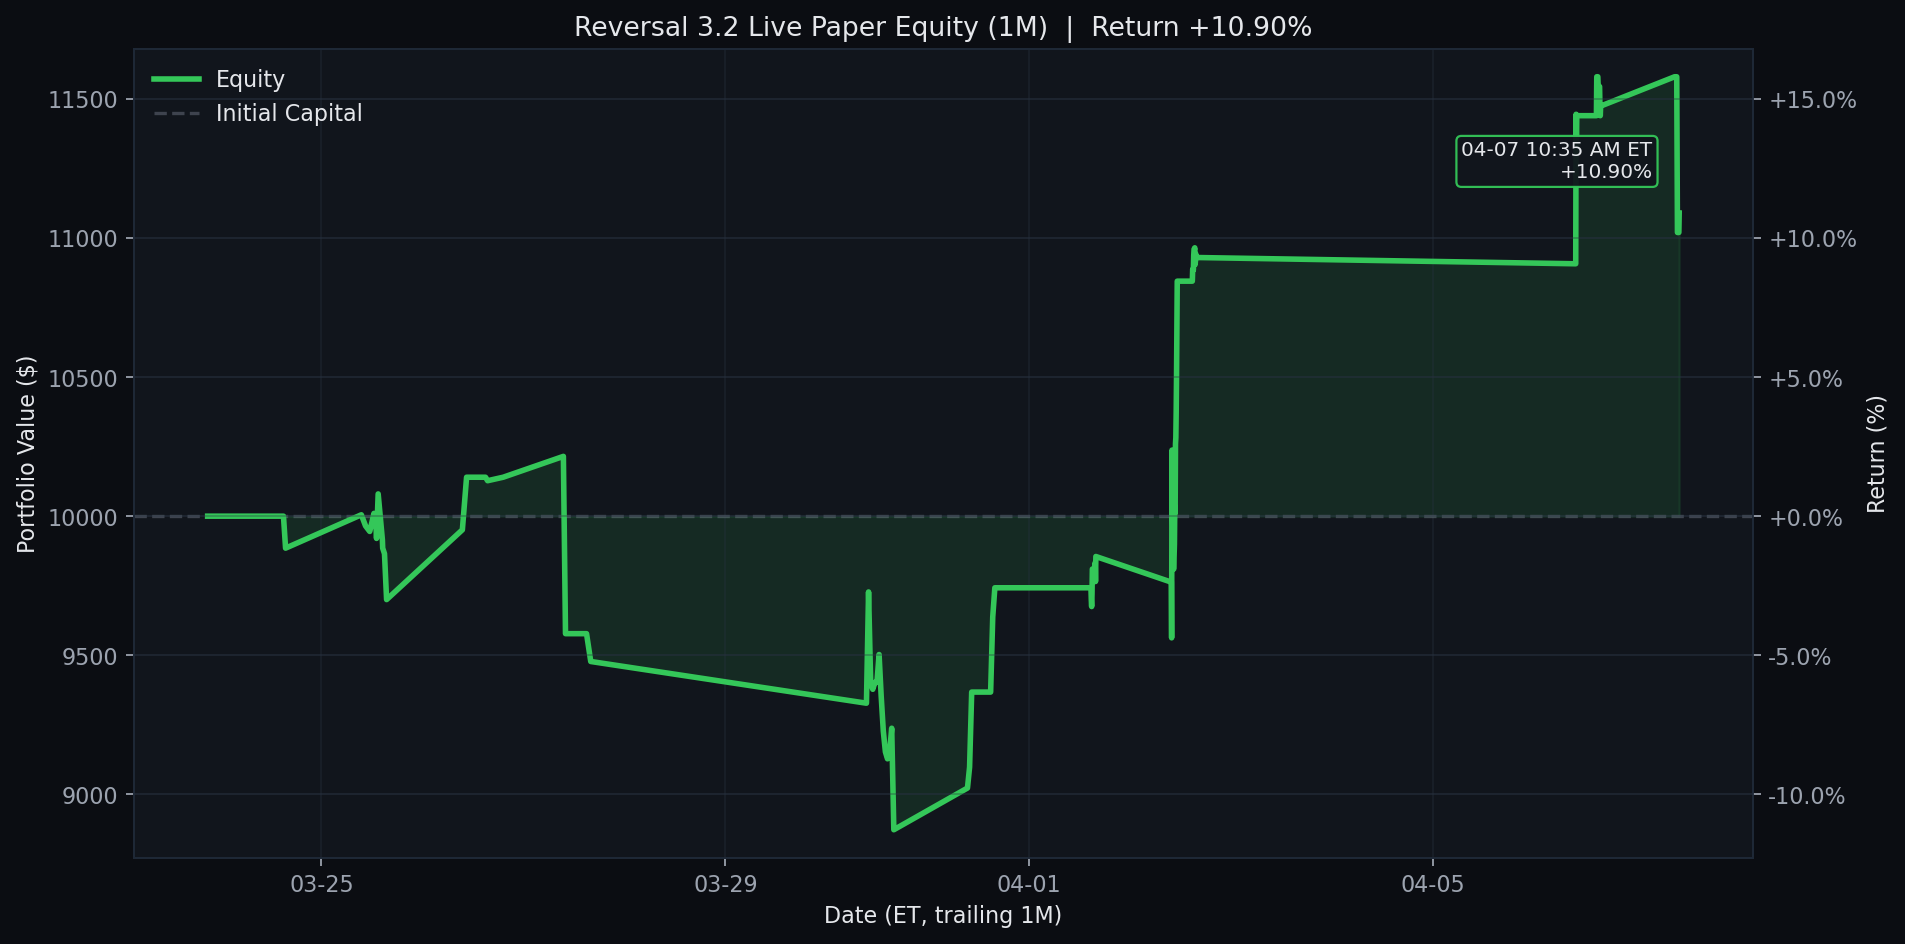
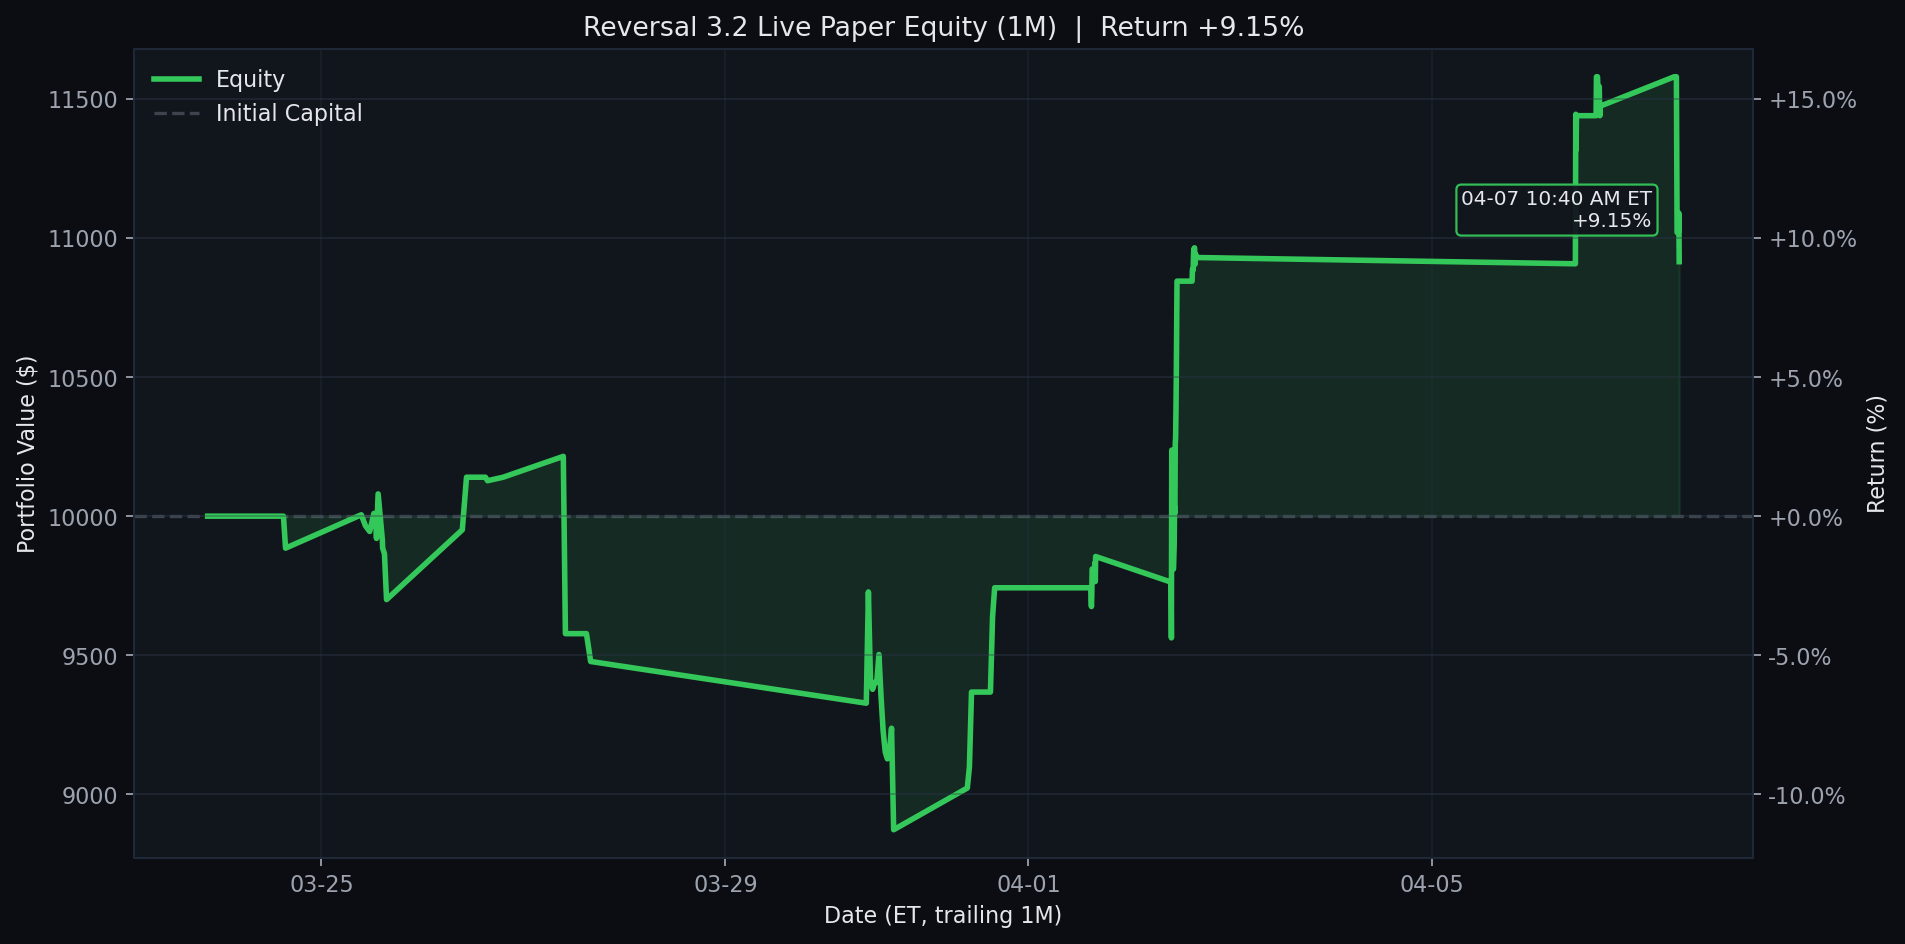
Update Reversal 3.2 live paper test 2026-04-07 10:40 ET

Changed region(s): [[0.3097, 0.0, 0.6814, 0.0614], [0.7433, 0.1229, 0.8982, 0.2765], [0.7433, 0.9216, 0.7743, 0.9523]]

diff --git a/results/reversal_3_2_live/README.md b/results/reversal_3_2_live/README.md
@@ -1,6 +1,6 @@
 # Reversal 3.2 Live Paper Test
 
-Last updated (ET): `2026-04-07 10:35:05 EDT`
+Last updated (ET): `2026-04-07 10:40:05 EDT`
 Last processed slot: `manage_1030`
 
 ## Active Configuration
@@ -20,16 +20,16 @@ Last processed slot: `manage_1030`
 ## Portfolio Snapshot
 
 - Cash: `$6,260.00`
-- Equity: `$11,090.00`
+- Equity: `$10,915.00`
 - Realized PnL: `$1,440.00`
-- Unrealized PnL: `$-350.00`
+- Unrealized PnL: `$-525.00`
 - Open positions: `1`
 
 ## Open Positions
 
 ```text
 ticker    contract_symbol entry_trade_date  business_days_held  contracts  cash_spent  current_position_value  entry_option_price  current_option_price  entry_spot  current_spot  unrealized_pnl  unrealized_return_pct  success_rate  matched_signals  current_drop_pct  entry_iv_pct  current_iv_pct  rolling_sigma_20d_pct
-   HON HON260515C00230000       2026-04-06                   1          7      5180.0                  4830.0                 7.4                   6.9      227.61        225.75          -350.0                  -6.76         100.0               20               0.8         28.89           32.06                  20.57
+   HON HON260515C00230000       2026-04-06                   1          7      5180.0                  4655.0                 7.4                  6.65      227.61        225.66          -525.0                 -10.14         100.0               20               0.8         28.89           30.32                  20.57
 ```
 
 ## Today's Closed Trades (2026-04-07)
@@ -40,34 +40,34 @@ _None_
 
 ```text
 ticker  success_rate_%  matched_signals  current_drop_%  target_rebound_$  target_price  rolling_sigma_20d_%  call_candidate
-   HON          100.00               16            1.00              1.60        227.52                20.19            True
-  TSLA          100.00               15            3.30              8.14        349.33                42.33            True
-  REGN           96.77               31            1.01              5.40        760.73                25.24            True
-  MRVL           96.00               25            2.18              1.67        108.79                70.84            True
-  NVDA           95.65               23            1.59              1.98        176.79                33.70            True
-  UPRO           92.00               25            2.06              1.45        100.12                53.86            True
-  MPWR           91.18               34            1.18              9.77       1175.84                51.99            True
-  CDNS           91.11               45            0.63              1.22        278.87                25.26            True
-  ABNB           90.91               33            1.14              1.01        126.38                36.80            True
-  COST           90.32               31            0.61              4.35       1016.69                13.04            True
-   MAR           89.66               29            0.94              2.23        337.04                25.97            True
-  DDOG           88.89               27            1.91              1.56        115.83                49.06            True
+   HON          100.00               14            1.14              1.83        227.43                20.19            True
+  TSLA          100.00               10            3.69              9.11        348.92                42.33            True
+  REGN           96.77               31            1.03              5.52        760.67                25.24            True
+  MRVL           96.00               25            2.07              1.59        108.83                70.84            True
+  NVDA           95.65               23            1.62              2.01        176.78                33.70            True
+  UPRO           92.00               25            2.09              1.48        100.11                53.86            True
+  MPWR           91.18               34            1.18              9.75       1175.85                51.99            True
+  CDNS           90.91               44            0.78              1.53        278.73                25.26            True
+   MAR           90.91               33            0.89              2.12        337.09                25.97            True
+  ABNB           90.32               31            1.37              1.22        126.29                36.80            True
+  VRTX           88.46               26            1.48              4.51        432.37                40.01            True
+  GILD           88.46               26            0.80              0.78        139.79                20.18            True
 ```
 
 ## Recent Events
 
 ```text
-                    timestamp_et         slot   event_type                          detail
-2026-04-07T10:35:05.885837-04:00  manage_1030 slot_skipped {"reason": "already_processed"}
-2026-04-07T10:30:05.884012-04:00  manage_1030 slot_skipped {"reason": "already_processed"}
-2026-04-07T10:25:05.889349-04:00  manage_1030 slot_skipped {"reason": "already_processed"}
-2026-04-07T10:10:05.890428-04:00  manage_1000 slot_skipped {"reason": "already_processed"}
-2026-04-07T10:05:05.888815-04:00  manage_1000 slot_skipped {"reason": "already_processed"}
-2026-04-07T10:00:05.892155-04:00  manage_1000 slot_skipped {"reason": "already_processed"}
-2026-04-07T09:55:05.880017-04:00  manage_1000 slot_skipped {"reason": "already_processed"}
-2026-04-07T09:40:05.898554-04:00  manage_0930 slot_skipped {"reason": "already_processed"}
-2026-04-07T09:35:05.899056-04:00  manage_0930 slot_skipped {"reason": "already_processed"}
-2026-04-07T09:30:05.896974-04:00 data_refresh data_refresh                   {'saved': 99}
+                    timestamp_et        slot   event_type                          detail
+2026-04-07T10:40:05.892021-04:00 manage_1030 slot_skipped {"reason": "already_processed"}
+2026-04-07T10:35:05.885837-04:00 manage_1030 slot_skipped {"reason": "already_processed"}
+2026-04-07T10:30:05.884012-04:00 manage_1030 slot_skipped {"reason": "already_processed"}
+2026-04-07T10:25:05.889349-04:00 manage_1030 slot_skipped {"reason": "already_processed"}
+2026-04-07T10:10:05.890428-04:00 manage_1000 slot_skipped {"reason": "already_processed"}
+2026-04-07T10:05:05.888815-04:00 manage_1000 slot_skipped {"reason": "already_processed"}
+2026-04-07T10:00:05.892155-04:00 manage_1000 slot_skipped {"reason": "already_processed"}
+2026-04-07T09:55:05.880017-04:00 manage_1000 slot_skipped {"reason": "already_processed"}
+2026-04-07T09:40:05.898554-04:00 manage_0930 slot_skipped {"reason": "already_processed"}
+2026-04-07T09:35:05.899056-04:00 manage_0930 slot_skipped {"reason": "already_processed"}
 ```
 
 ## Equity Curves
@@ -77,20 +77,20 @@ Each chart is generated from the same live equity series with no-lookahead marks
 <details>
 <summary><strong>1D</strong></summary>
 
-![Reversal 3.2 Live Equity 1D](../../assets/reversal_3_2_live_equity_1d.png?v=20260407103505)
+![Reversal 3.2 Live Equity 1D](../../assets/reversal_3_2_live_equity_1d.png?v=20260407104005)
 
 </details>
 
 <details open>
 <summary><strong>1W</strong></summary>
 
-![Reversal 3.2 Live Equity 1W](../../assets/reversal_3_2_live_equity.png?v=20260407103505)
+![Reversal 3.2 Live Equity 1W](../../assets/reversal_3_2_live_equity.png?v=20260407104005)
 
 </details>
 
 <details>
 <summary><strong>1M</strong></summary>
 
-![Reversal 3.2 Live Equity 1M](../../assets/reversal_3_2_live_equity_1m.png?v=20260407103505)
+![Reversal 3.2 Live Equity 1M](../../assets/reversal_3_2_live_equity_1m.png?v=20260407104005)
 
 </details>

diff --git a/README.md b/README.md
@@ -3,8 +3,8 @@
 <!-- reversal-3.2-live:start -->
 ## Reversal 3.2 Live Paper Test
 
-- Last updated (ET): `2026-04-07 10:35:05 EDT`
-- Equity: `$11,090.00` | Realized: `$1,440.00` | Unrealized: `$-350.00` | Open positions: `1`
+- Last updated (ET): `2026-04-07 10:40:05 EDT`
+- Equity: `$10,915.00` | Realized: `$1,440.00` | Unrealized: `$-525.00` | Open positions: `1`
 - Today closed trades: `0`
 - Current slot: `manage_1030`
 - Universe: `qqq_plus_leverage_etfs`
@@ -14,27 +14,27 @@
 
 ```text
 ticker    contract_symbol  contracts  cash_spent  current_position_value  current_option_price  unrealized_pnl  unrealized_return_pct  business_days_held
-   HON HON260515C00230000          7      5180.0                  4830.0                   6.9          -350.0                  -6.76                   1
+   HON HON260515C00230000          7      5180.0                  4655.0                  6.65          -525.0                 -10.14                   1
 ```
 
 <details>
 <summary><strong>1D</strong></summary>
 
-![Reversal 3.2 Live Equity 1D](assets/reversal_3_2_live_equity_1d.png?v=20260407103505)
+![Reversal 3.2 Live Equity 1D](assets/reversal_3_2_live_equity_1d.png?v=20260407104005)
 
 </details>
 
 <details open>
 <summary><strong>1W</strong></summary>
 
-![Reversal 3.2 Live Equity 1W](assets/reversal_3_2_live_equity.png?v=20260407103505)
+![Reversal 3.2 Live Equity 1W](assets/reversal_3_2_live_equity.png?v=20260407104005)
 
 </details>
 
 <details>
 <summary><strong>1M</strong></summary>
 
-![Reversal 3.2 Live Equity 1M](assets/reversal_3_2_live_equity_1m.png?v=20260407103505)
+![Reversal 3.2 Live Equity 1M](assets/reversal_3_2_live_equity_1m.png?v=20260407104005)
 
 </details>
 
